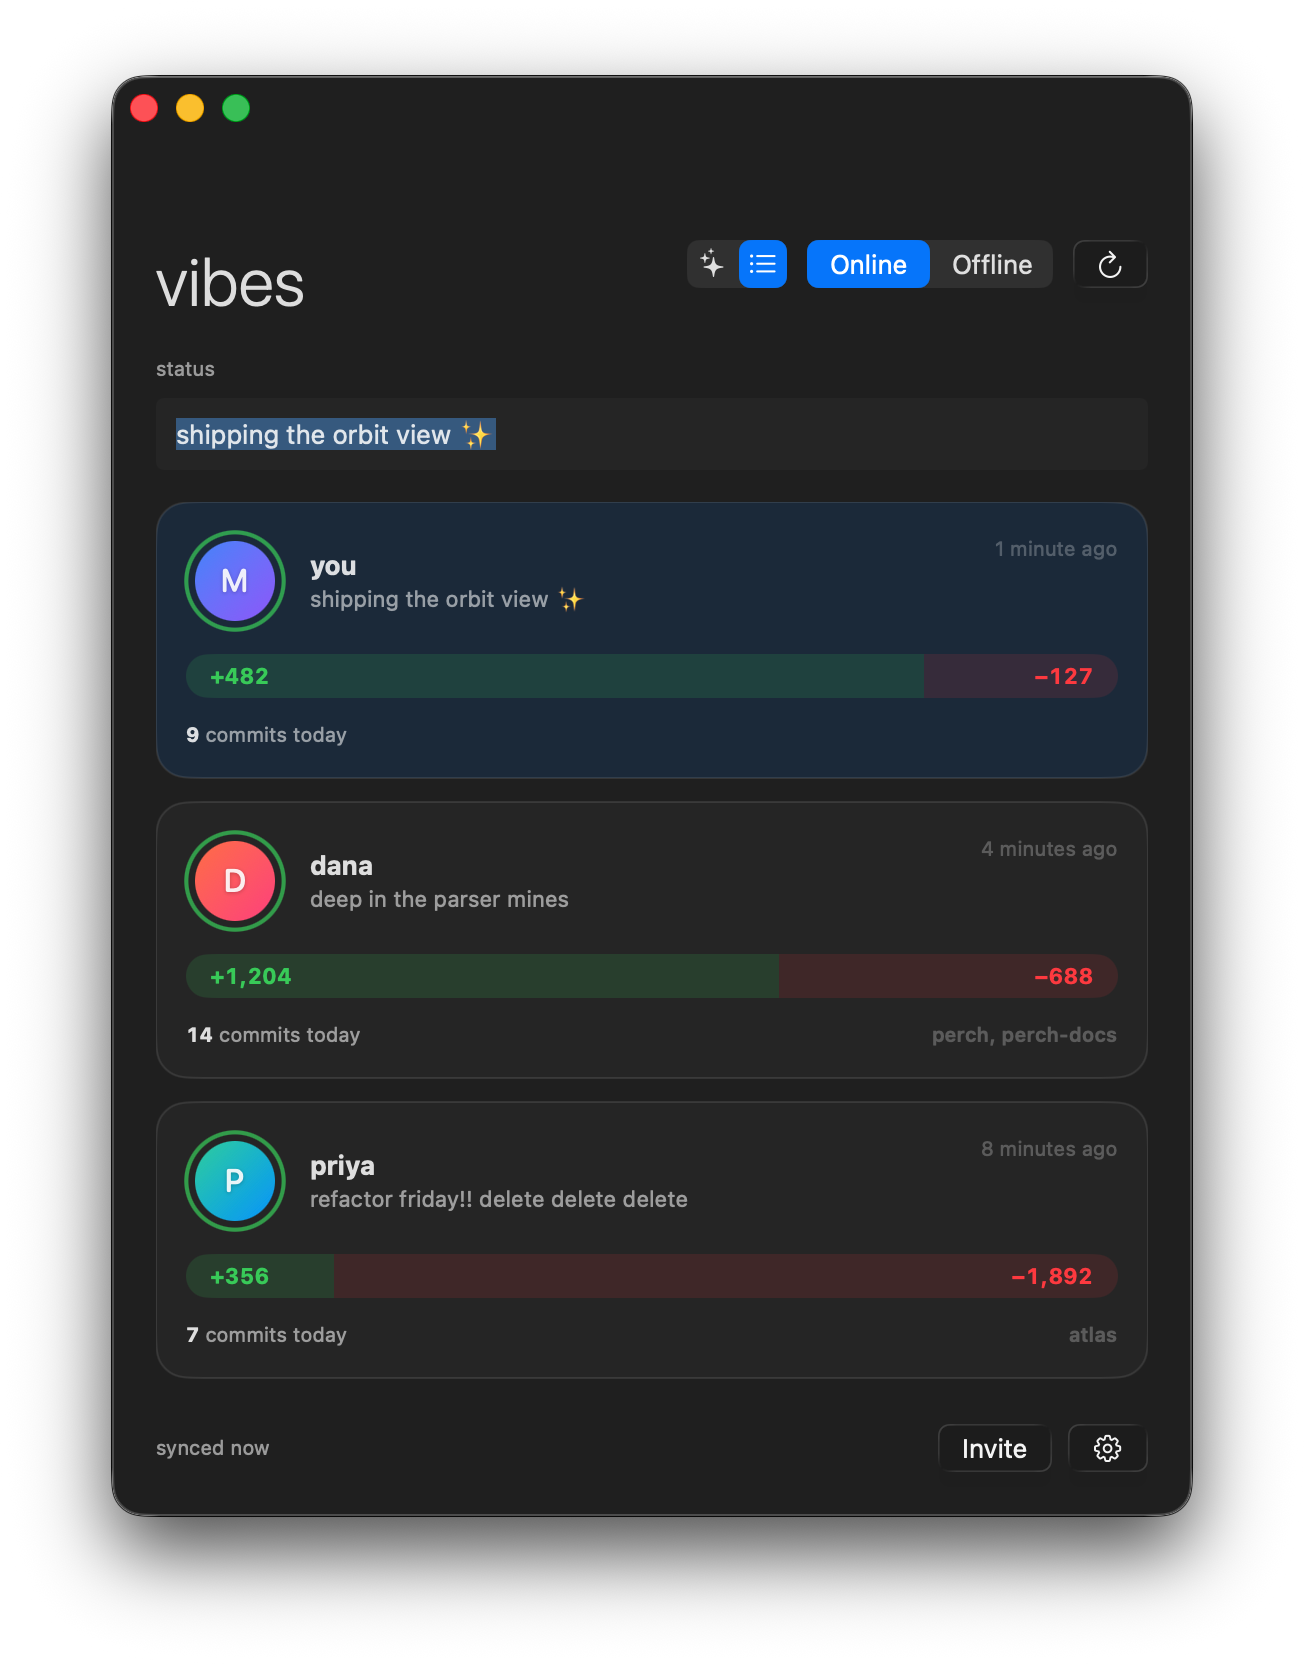
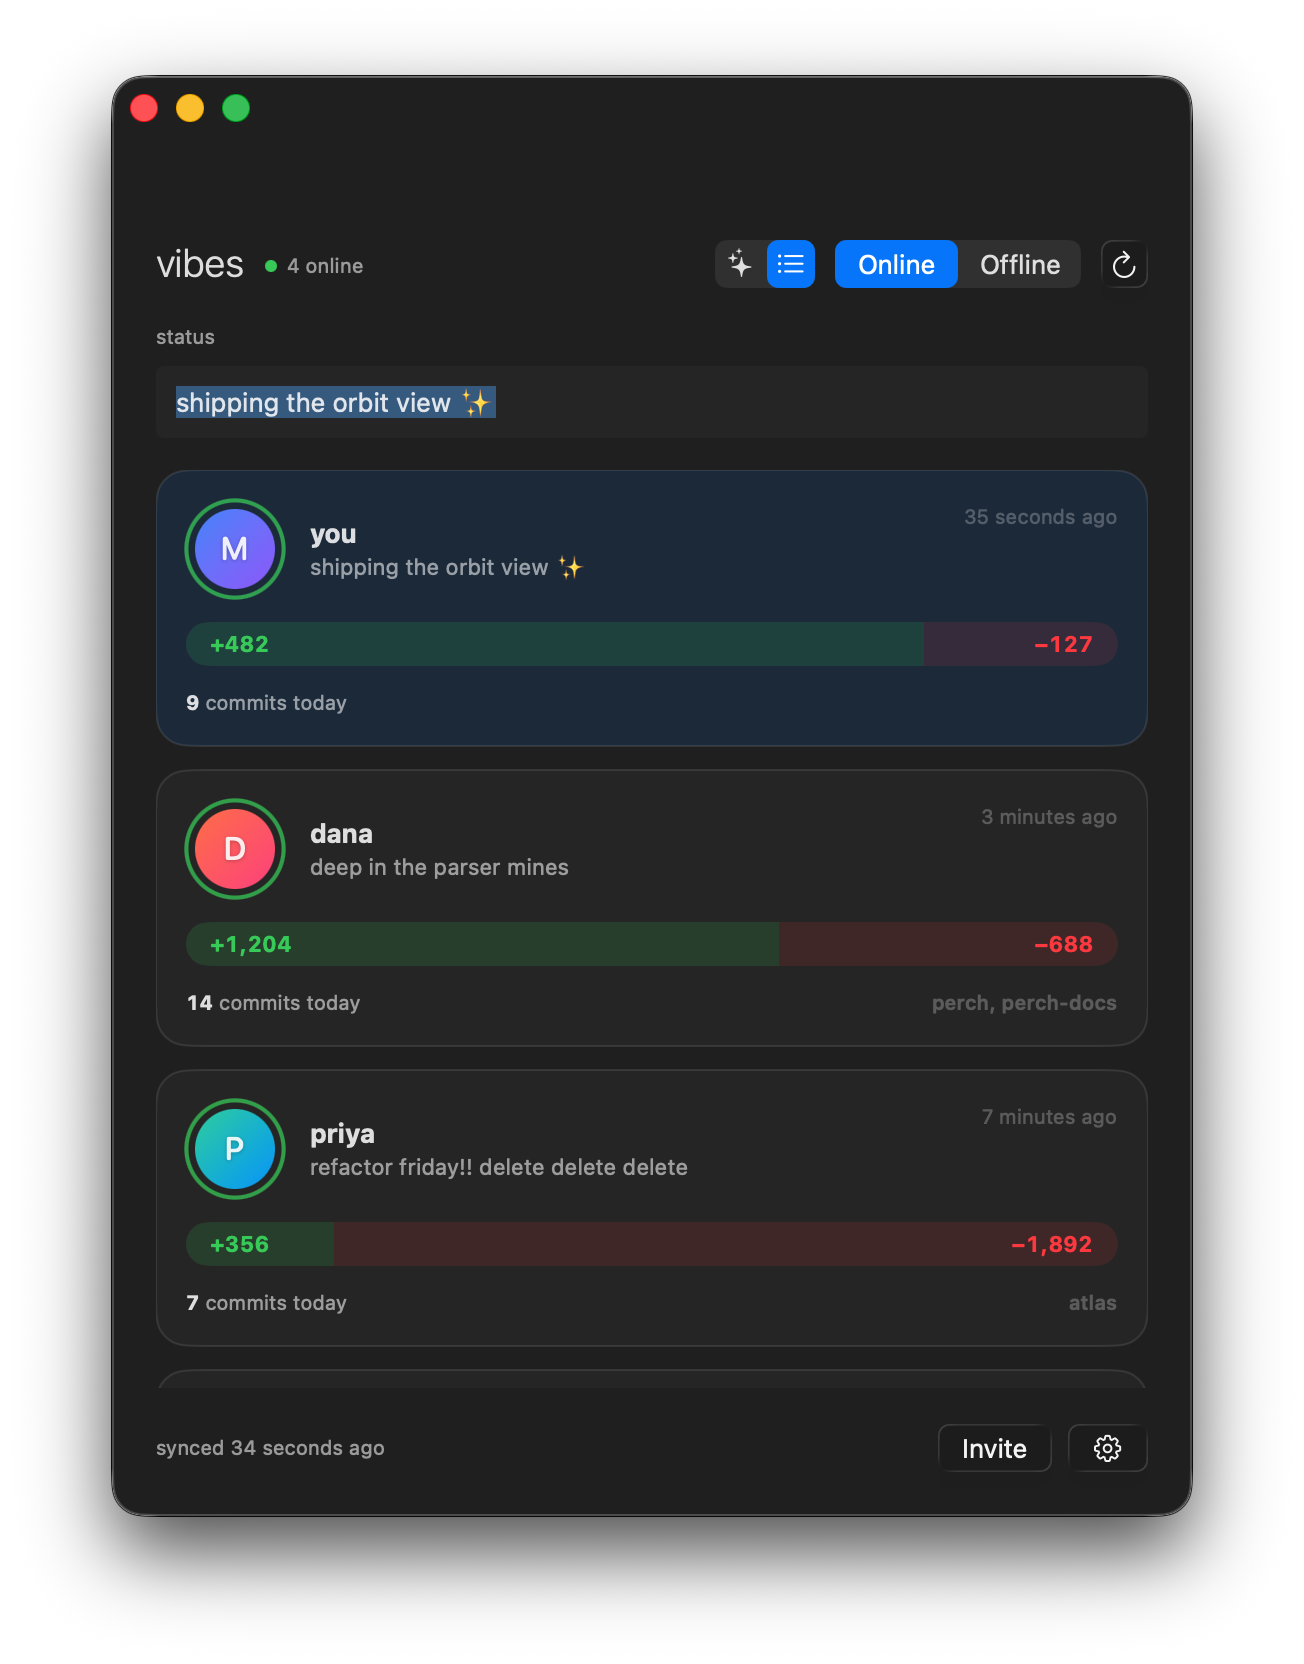
feat: titlebar-scale header with live count + richer drifting dock
The display-size wordmark row becomes the mockups' slim titlebar: a
19pt 'vibes' mark with a green-dot live count ('4 in orbit' / '4
online' by view mode) on the left, the orbit/list toggle, presence
control, and refresh on the right. The DRIFTING dock gains each
friend's day residue ('2h · +210 −95 in kiln'), compact recency
stamps, and the mockup's quiet band fill.

diff --git a/client/Vibes/OrbitView.swift b/client/Vibes/OrbitView.swift
@@ -352,7 +352,8 @@ private struct OrbView: View {
 
 // MARK: - Drift dock
 
-// Offline friends, compressed into one quiet strip under the sky.
+// Offline friends, compressed into one quiet band under the sky (mockup:
+// "DRIFTING · sam 2h · +210 −95 in kiln · kei 1d").
 private struct DriftDock: View {
   var drifters: [MergedStatus]
 
@@ -360,34 +361,67 @@ private struct DriftDock: View {
     VStack(spacing: 0) {
       Divider()
       ScrollView(.horizontal, showsIndicators: false) {
-        HStack(spacing: 16) {
+        HStack(spacing: 18) {
           Text("DRIFTING")
             .font(.caption2.weight(.bold))
             .tracking(1.2)
             .foregroundStyle(Color(nsColor: .tertiaryLabelColor))
           ForEach(drifters) { status in
-            HStack(spacing: 6) {
-              AvatarFill(user: status.user, diameter: 20)
-                .saturation(0.3)
-                .opacity(0.8)
-              Text(status.user.displayName)
-                .font(.caption)
-                .foregroundStyle(Color.secondary)
-              Text(lastSeen(status))
-                .font(.caption2)
-                .foregroundStyle(Color(nsColor: .tertiaryLabelColor))
-            }
+            DrifterItem(status: status)
           }
         }
-        .padding(.horizontal, 6)
-        .padding(.vertical, 10)
+        .padding(.horizontal, 8)
+        .padding(.vertical, 11)
       }
     }
+    .background(Color(nsColor: .quaternarySystemFill).opacity(0.55))
+    .clipShape(RoundedRectangle(cornerRadius: 10))
+  }
+}
+
+private struct DrifterItem: View {
+  var status: MergedStatus
+
+  var body: some View {
+    HStack(spacing: 7) {
+      AvatarFill(user: status.user, diameter: 20)
+        .saturation(0.3)
+        .opacity(0.8)
+      Text(status.user.displayName)
+        .font(.caption.weight(.semibold))
+        .foregroundStyle(Color.secondary)
+      detail
+        .font(.caption2)
+        .foregroundStyle(Color(nsColor: .tertiaryLabelColor))
+        .monospacedDigit()
+        .lineLimit(1)
+    }
+    .accessibilityElement(children: .combine)
   }
 
-  private func lastSeen(_ status: MergedStatus) -> String {
+  // "2h · +210 −95 in kiln" — recency first, then the day's residue when the
+  // friend left one behind. Quiet days are just the recency.
+  private var detail: Text {
+    var text = Text(compactRecency)
+    if status.churn > 0 {
+      text = text + Text(" · ")
+        + Text("+\(status.insertions)").foregroundColor(Color(nsColor: .systemGreen))
+        + Text(" \u{2212}\(status.deletions)").foregroundColor(Color(nsColor: .systemRed))
+      if let repo = status.repoAliases.first {
+        text = text + Text(" in \(repo)")
+      }
+    }
+    return text
+  }
+
+  // Tight relative stamp for the dock ("2h", "1d") — the full relative
+  // phrasing the list rows use reads too long at this density.
+  private var compactRecency: String {
     guard let date = status.updatedAt else { return "" }
-    return date.formatted(.relative(presentation: .named))
+    let seconds = max(0, Date().timeIntervalSince(date))
+    if seconds < 3600 { return "\(max(1, Int(seconds / 60)))m" }
+    if seconds < 86_400 { return "\(Int(seconds / 3600))h" }
+    return "\(Int(seconds / 86_400))d"
   }
 }
 

diff --git a/client/Vibes/ContentView.swift b/client/Vibes/ContentView.swift
@@ -129,8 +129,27 @@ private struct MainPanel: View {
 
   var body: some View {
     VStack(alignment: .leading, spacing: 18) {
-      HStack(alignment: .top) {
-        Header(title: "vibes")
+      // Slim titlebar-style header (design/mockups): small wordmark + live
+      // count on the left, the floating controls on the right — one quiet row
+      // instead of the old display-size header.
+      HStack(alignment: .center, spacing: 10) {
+        Text("vibes")
+          // Exact size kept: the wordmark is a deliberate display mark, now at
+          // titlebar scale per the orbit mockups.
+          .font(.system(size: 19, weight: .light))
+        if let count = onlineCount {
+          HStack(spacing: 5) {
+            Circle()
+              .fill(Color(nsColor: .systemGreen))
+              .frame(width: 6, height: 6)
+            Text(feedViewModeRaw == FeedViewMode.list.rawValue ? "\(count) online" : "\(count) in orbit")
+              .font(.caption)
+              .foregroundStyle(Color.secondary)
+              .monospacedDigit()
+          }
+          .padding(.top, 2)
+          .accessibilityElement(children: .combine)
+        }
         Spacer()
         GlassEffectContainer(spacing: 10) {
           HStack(spacing: 10) {
@@ -171,6 +190,14 @@ private struct MainPanel: View {
       InviteFriendView()
         .environmentObject(model)
     }
+  }
+
+  // You + friends currently online; nil before the first feed so the count
+  // doesn't flash "0" during launch.
+  private var onlineCount: Int? {
+    guard let feed = model.feed else { return nil }
+    let you = feed.you.mode == .online ? 1 : 0
+    return you + feed.friends.filter { $0.mode == .online }.count
   }
 }
 
